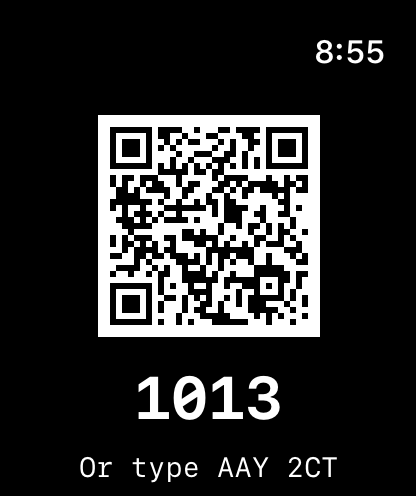
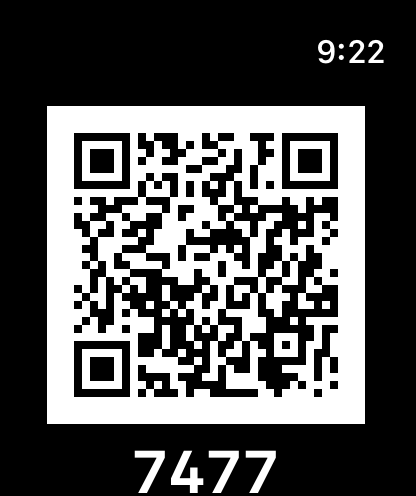
Watch: bigger score screen and pairing QR (#92)
Score: team rows fill the width and the space under the call line, scores in 68 pt (scale down for 3 digits), team names 17 pt, larger call line, bigger serving dot, undo beside the call. Link: the QR is the largest square that fits under the clock, whole-pixel modules on white; the numbers and typed code sit below it.
Checked in the watchOS 27 simulator at 40, 46 and 49 mm; docs screenshots updated.

diff --git a/watch/DinkWatch/Views/ScoreView.swift b/watch/DinkWatch/Views/ScoreView.swift
@@ -17,20 +17,25 @@ struct ScoreView: View {
 
     var body: some View {
         let session = app.session
-        VStack(spacing: 4) {
-            Text(callText)
-                .font(.system(size: 34, weight: .bold, design: .rounded)).monospacedDigit().minimumScaleFactor(0.6).lineLimit(1)
-                .accessibilityLabel("Call \(game.call.map(String.init).joined(separator: " "))")
-            Text("\(serverName) serving").font(.caption2).foregroundStyle(.secondary).lineLimit(1)
+        // The score is the hero: the two rows fill the width and everything under the call line. Undo sits left of the call, clear of the clock.
+        VStack(spacing: 3) {
+            HStack(spacing: 0) {
+                Button { session.undo() } label: { Image(systemName: "arrow.uturn.backward").font(.system(size: 16, weight: .semibold)).frame(width: 34, height: 28) }
+                    .buttonStyle(.plain).accessibilityLabel("Undo last point")
+                Text(callText)
+                    .font(.system(size: 26, weight: .bold, design: .rounded)).monospacedDigit().minimumScaleFactor(0.6).lineLimit(1)
+                    .frame(maxWidth: .infinity)
+                    .accessibilityLabel("Call \(game.call.map(String.init).joined(separator: " ")). \(serverName) serving.")
+                Color.clear.frame(width: 34, height: 28)
+            }
             teamButton(0)
             teamButton(1)
         }
-        .padding(.horizontal, 2)
+        .padding(.horizontal, 1)
+        .padding(.bottom, 3)
+        .ignoresSafeArea(edges: .bottom)
         .toolbar {
             ToolbarItem(placement: .topBarTrailing) { SyncDot(offline: session.sync == .offline, queued: session.model.queued).labelStyle(.iconOnly) }
-            ToolbarItem(placement: .bottomBar) {
-                Button { session.undo() } label: { Label("Undo", systemImage: "arrow.uturn.backward") }
-            }
         }
     }
 
@@ -39,15 +44,21 @@ struct ScoreView: View {
             WKInterfaceDevice.current().play(.click)
             app.session.score(side: t)
         } label: {
-            HStack {
-                if game.serving == t { Image(systemName: "circle.fill").font(.system(size: 8)).accessibilityHidden(true) }
-                Text(teamName(game, t)).font(.footnote).lineLimit(1).minimumScaleFactor(0.7)
-                Spacer(minLength: 2)
-                Text("\(game.score[t])").font(.title2.bold()).monospacedDigit()
+            HStack(spacing: 4) {
+                HStack(alignment: .firstTextBaseline, spacing: 4) {
+                    if game.serving == t { Image(systemName: "circle.fill").font(.system(size: 13)).accessibilityHidden(true) }
+                    Text(teamName(game, t)).font(.system(size: 17, weight: .semibold)).lineLimit(2).minimumScaleFactor(0.6).multilineTextAlignment(.leading)
+                }
+                Spacer(minLength: 0)
+                Text("\(game.score[t])")
+                    .font(.system(size: 68, weight: .heavy, design: .rounded)).monospacedDigit().lineLimit(1).minimumScaleFactor(0.5)
             }
+            .padding(.horizontal, 8)
+            .frame(maxWidth: .infinity, maxHeight: .infinity)
+            .background(RoundedRectangle(cornerRadius: 14, style: .continuous).fill(t == 0 ? Color.green : Color.blue))
+            .foregroundStyle(.black)
         }
-        .buttonStyle(.borderedProminent)
-        .tint(t == 0 ? .green : .blue)
+        .buttonStyle(.plain)
         .accessibilityLabel("Point for \(teamName(game, t)). Score \(game.score[t]).")
     }
 }

diff --git a/watch/DinkWatch/Views/LinkView.swift b/watch/DinkWatch/Views/LinkView.swift
@@ -7,27 +7,31 @@ struct LinkView: View {
 
     var body: some View {
         let session = app.session
-        ScrollView {
-            VStack(spacing: 8) {
-                if let p = session.pairing {
-                    QRView(text: p.qrText)
-                        .frame(maxWidth: 120) // small enough that the 4 numbers show without scrolling on a 41 mm case
-                        .accessibilityElement()
-                        .accessibilityLabel("Link code. Open Dink Score on your phone, choose Link a watch, then type \(p.shortCode) and \(p.confirm4.map(String.init).joined(separator: " ")).")
-                    Text(p.confirm4)
-                        .font(.system(.title2, design: .monospaced).weight(.bold))
-                        .accessibilityLabel("Numbers to type on the phone: \(p.confirm4.map(String.init).joined(separator: " "))")
-                    Text("Or type \(p.shortCode)").font(.system(.footnote, design: .monospaced))
-                    Text("Dink Score on your phone: Club, Apple Watch, Link a watch.").font(.caption2).foregroundStyle(.secondary).multilineTextAlignment(.center)
-                } else {
-                    ProgressView("Getting a code")
-                }
-                if let n = session.notice { Text(n).font(.caption2).foregroundStyle(.orange).multilineTextAlignment(.center) }
-                if session.hasLink {
-                    Button("Cancel") { session.cancelRelink() }
+        // The QR is the largest square that fits the screen below the clock, edge to edge; the numbers are one scroll (or Digital Crown turn) below it.
+        GeometryReader { geo in
+            let side = min(geo.size.width, geo.size.height)
+            ScrollView {
+                VStack(spacing: 6) {
+                    if let p = session.pairing {
+                        QRView(text: p.qrText)
+                            .frame(width: side, height: side)
+                            .accessibilityElement()
+                            .accessibilityLabel("Link code. Open Dink Score on your phone, choose Link a watch, then type \(p.shortCode) and \(p.confirm4.map(String.init).joined(separator: " ")).")
+                        Text(p.confirm4)
+                            .font(.system(.title2, design: .monospaced).weight(.bold))
+                            .accessibilityLabel("Numbers to type on the phone: \(p.confirm4.map(String.init).joined(separator: " "))")
+                        Text("Or type \(p.shortCode)").font(.system(.footnote, design: .monospaced))
+                        Text("Dink Score on your phone: Club, Apple Watch, Link a watch.").font(.caption2).foregroundStyle(.secondary).multilineTextAlignment(.center).padding(.horizontal, 10)
+                    } else {
+                        ProgressView("Getting a code")
+                    }
+                    if let n = session.notice { Text(n).font(.caption2).foregroundStyle(.orange).multilineTextAlignment(.center).padding(.horizontal, 10) }
+                    if session.hasLink {
+                        Button("Cancel") { session.cancelRelink() }.padding(.horizontal, 10)
+                    }
                 }
             }
         }
-        .navigationTitle("Link")
+        .ignoresSafeArea(.container, edges: .horizontal)
     }
 }

diff --git a/watch/DinkWatch/Views/QRView.swift b/watch/DinkWatch/Views/QRView.swift
@@ -4,15 +4,17 @@ import DinkCore
 /// The pairing code, drawn on a white square with whole-point modules so the edges stay sharp for a phone camera.
 struct QRView: View {
     let text: String
+    @Environment(\.displayScale) private var scale
 
     var body: some View {
         if let qr = try? QRMatrix(text, level: .M) {
             Canvas { ctx, size in
+                // The white square is the whole frame; modules are a whole number of device pixels so no edge is blurred.
                 let quiet = 2, count = qr.size + 2 * quiet
-                let cell = max(1, floor(min(size.width, size.height) / CGFloat(count)))
+                let cell = max(1 / scale, floor(min(size.width, size.height) * scale / CGFloat(count)) / scale)
                 let side = cell * CGFloat(count)
-                let origin = CGPoint(x: (size.width - side) / 2, y: (size.height - side) / 2)
-                ctx.fill(Path(CGRect(origin: origin, size: CGSize(width: side, height: side))), with: .color(.white))
+                let origin = CGPoint(x: ((size.width - side) / 2 * scale).rounded() / scale, y: ((size.height - side) / 2 * scale).rounded() / scale)
+                ctx.fill(Path(CGRect(origin: .zero, size: size)), with: .color(.white))
                 var dark = Path()
                 for r in 0..<qr.size { for c in 0..<qr.size where qr.isDark(r, c) {
                     dark.addRect(CGRect(x: origin.x + CGFloat(c + quiet) * cell, y: origin.y + CGFloat(r + quiet) * cell, width: cell, height: cell))

diff --git a/watch/README.md b/watch/README.md
@@ -14,9 +14,9 @@ watch/
 
 | Screen | When | What |
 |---|---|---|
-| Link | not linked | QR code, 4 numbers the phone asks for, and 6 characters to type if the camera is no use. A new code every ~4.5 minutes. |
+| Link | not linked | QR code as large as the screen allows (a square under the clock, whole-pixel modules on white), then, one scroll or Digital Crown turn below it, the 4 numbers the phone asks for and 6 characters to type if the camera is no use. A new code every ~4.5 minutes. |
 | Idle | linked, no game sent | club name, *Link another phone*, *Unlink* |
-| Score | a game is attached | the call (serving side first, as the phone says it), a big button per team, undo, a sync dot |
+| Score | a game is attached | the call (serving side first, as the phone says it) with undo beside it, then one full-width button per team that fills the rest of the screen: team name (17 pt, up to two lines), a dot on the serving team, and the score in 68 pt type (shrinks for 3 digits) |
 | Game over | the game is won | winner and score, *Finish* (`watch-finish`), *Undo last point*, *Close without saving* |
 
 Taps are written to an outbox first (`Application Support/outbox.json`), each with its own id, and sent in order. A lost answer is retried with the same id and the server counts that tap once, so the score survives a flaky connection.
@@ -56,7 +56,7 @@ You need a Mac with Xcode, an iPhone paired with the watch, and an Apple ID. A f
 
 ## Not done here, deliberately
 
-- Not run on a real watch. It was run in the watchOS 27 simulator against the real API handlers on throwaway PGlite (`DINK_BASE_URL=http://127.0.0.1:<port>`, unsigned build): `docs/01-link.png` to `04-gameover.png`; the QR in `01-link.png` decodes to the pairing URL. Taps, the HealthKit prompt and the Keychain on a signed build are untested.
+- Not run on a real watch. It was run in the watchOS 27 simulator against the real API handlers on throwaway PGlite (`DINK_BASE_URL=http://127.0.0.1:<port>`, unsigned build): `docs/01-link.png` to `04-gameover.png` (46 mm; `01-link` and `03-score` also at 40 mm and 49 mm as `*-40mm.png` and `*-49mm.png`); the QR in each link screenshot decodes to the pairing URL. Taps, the HealthKit prompt and the Keychain on a signed build are untested.
 - No app icon yet (needs a 1024 px image); no complications; no league or event scoring; no `scoredBy`.
 - Linking makes a registration on the server; the server allows 10 an hour per network, and the watch only asks while the Link screen is up.
 - CI has no Mac job; the vector check runs in the normal job, the Swift tests are run by hand.
